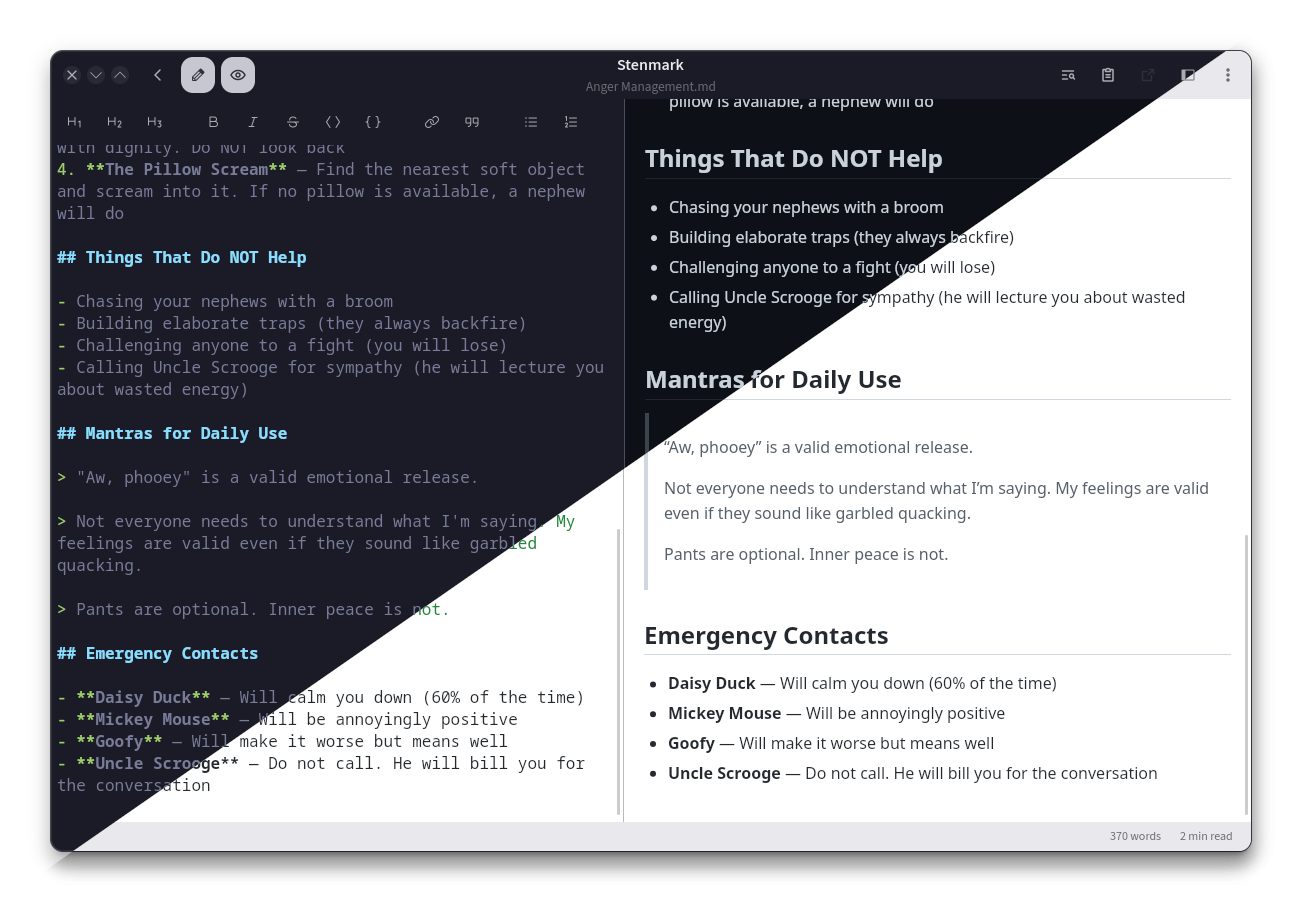
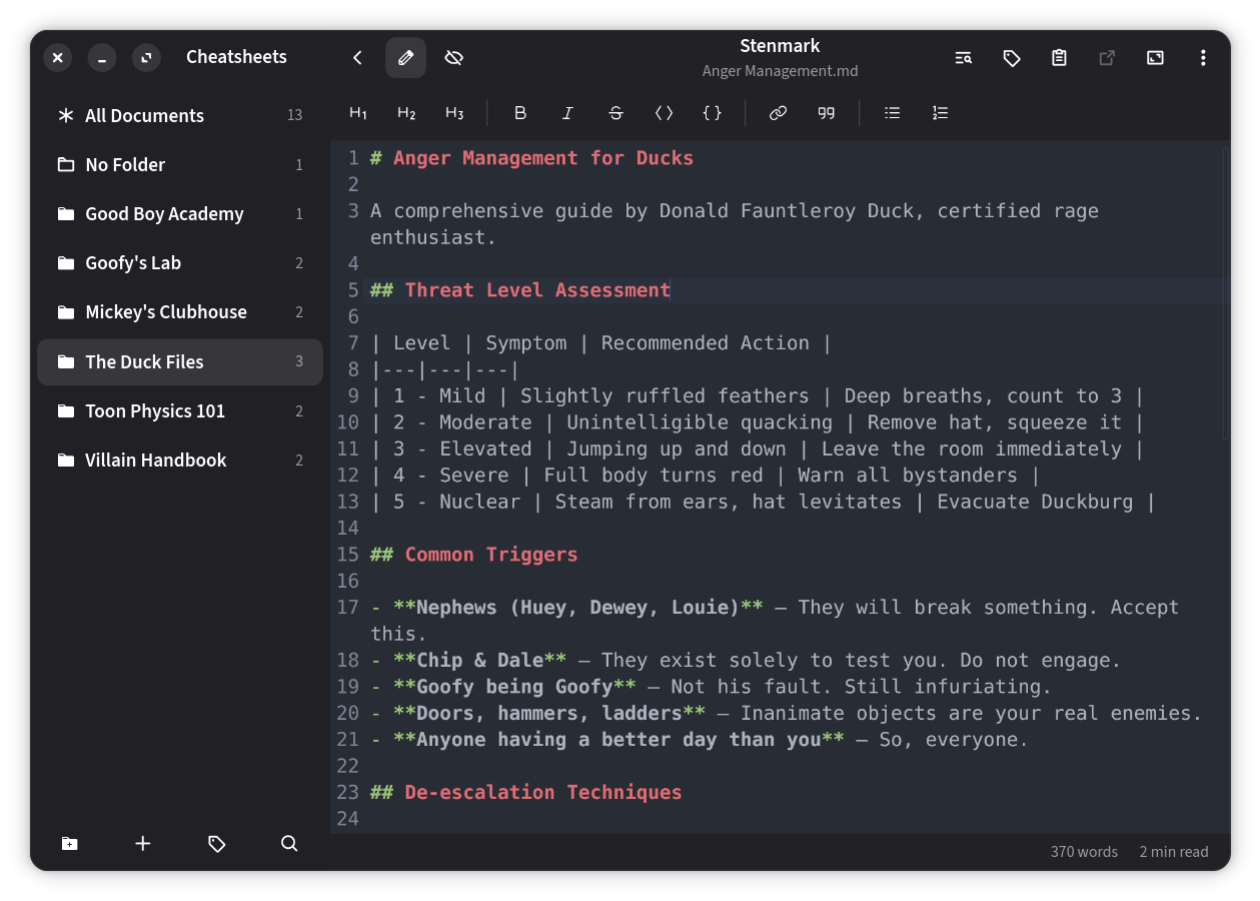
Refresh the screenshots
Both retaken from the current build, at the same 1260x901 so the stacked
figures do not jump, and between them they show the light and the dark
theme rather than only one.

The editor caption changed with them: it promised a "split-pane editor
with live preview", but the preview pane now starts off, so the pane it
described is not in the picture.

diff --git a/index.html b/index.html
@@ -130,8 +130,8 @@ flatpak install stenmark de.singular.stenmark</code></pre>
 <pre><code>flatpak remote-add --if-not-exists --user flathub https://dl.flathub.org/repo/flathub.flatpakrepo</code></pre>
 
   <figure>
-    <img src="screenshot-editor.png" alt="Stenmark's split-pane editor with a live preview beside the Markdown source." loading="lazy">
-    <figcaption>The split-pane editor with live preview</figcaption>
+    <img src="screenshot-editor.png" alt="Stenmark's Markdown editor with line numbers and syntax highlighting, in the dark theme." loading="lazy">
+    <figcaption>Editing the same document, in the dark theme</figcaption>
   </figure>
 
   <h2>What it may read</h2>
